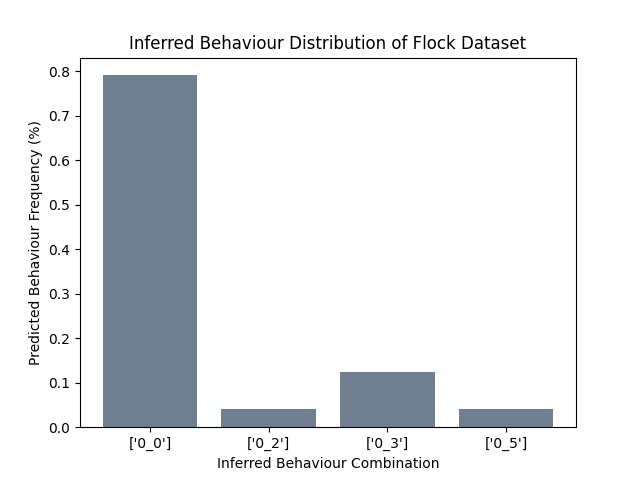
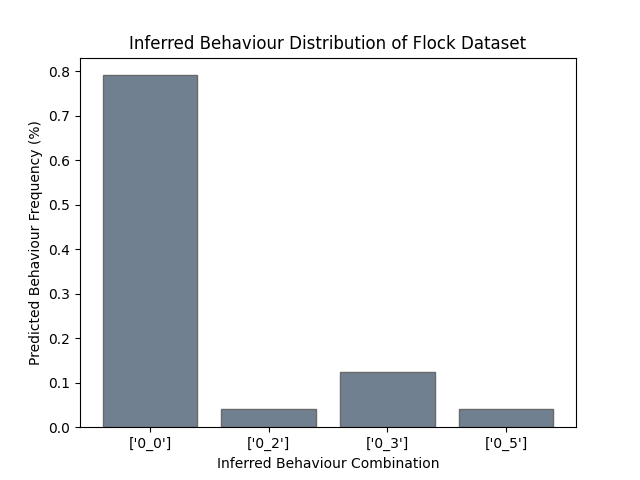
inference part 2

diff --git a/SocialLandmarks_Python/Experiments/inference_existing.py b/SocialLandmarks_Python/Experiments/inference_existing.py
@@ -75,7 +75,7 @@ def create_infered_beh_distr(predicted_labels, visualize = False):
         json.dump(beh_distr, json_file)
 
     if visualize:
-        plt.bar(range(len(beh_distr)-1), hist_adj, tick_label=tick_names, color = 'slategrey')
+        plt.bar(range(len(beh_distr)-1), hist_adj, tick_label=tick_names, color = 'slategrey', edgecolor = 'dimgrey')
         plt.xlabel('Inferred Behaviour Combination')
         plt.ylabel('Predicted Behaviour Frequency (%)')
         plt.title(f'Inferred Behaviour Distribution of {dataset_name} Dataset')
@@ -108,7 +108,7 @@ if __name__ ==  '__main__':
     predictions, predicted_labels = model_inference(model_name, model_type, x_test, y_test)
     combinations = decode_predictions(predicted_labels)
 
-    beh_distr = create_infered_beh_distr(predicted_labels, True)
+    beh_distr = create_infered_beh_distr(predicted_labels, False)
     
     # Generate new trajectories based on inferred behaviours:
     generate_trajectories(beh_distr)
